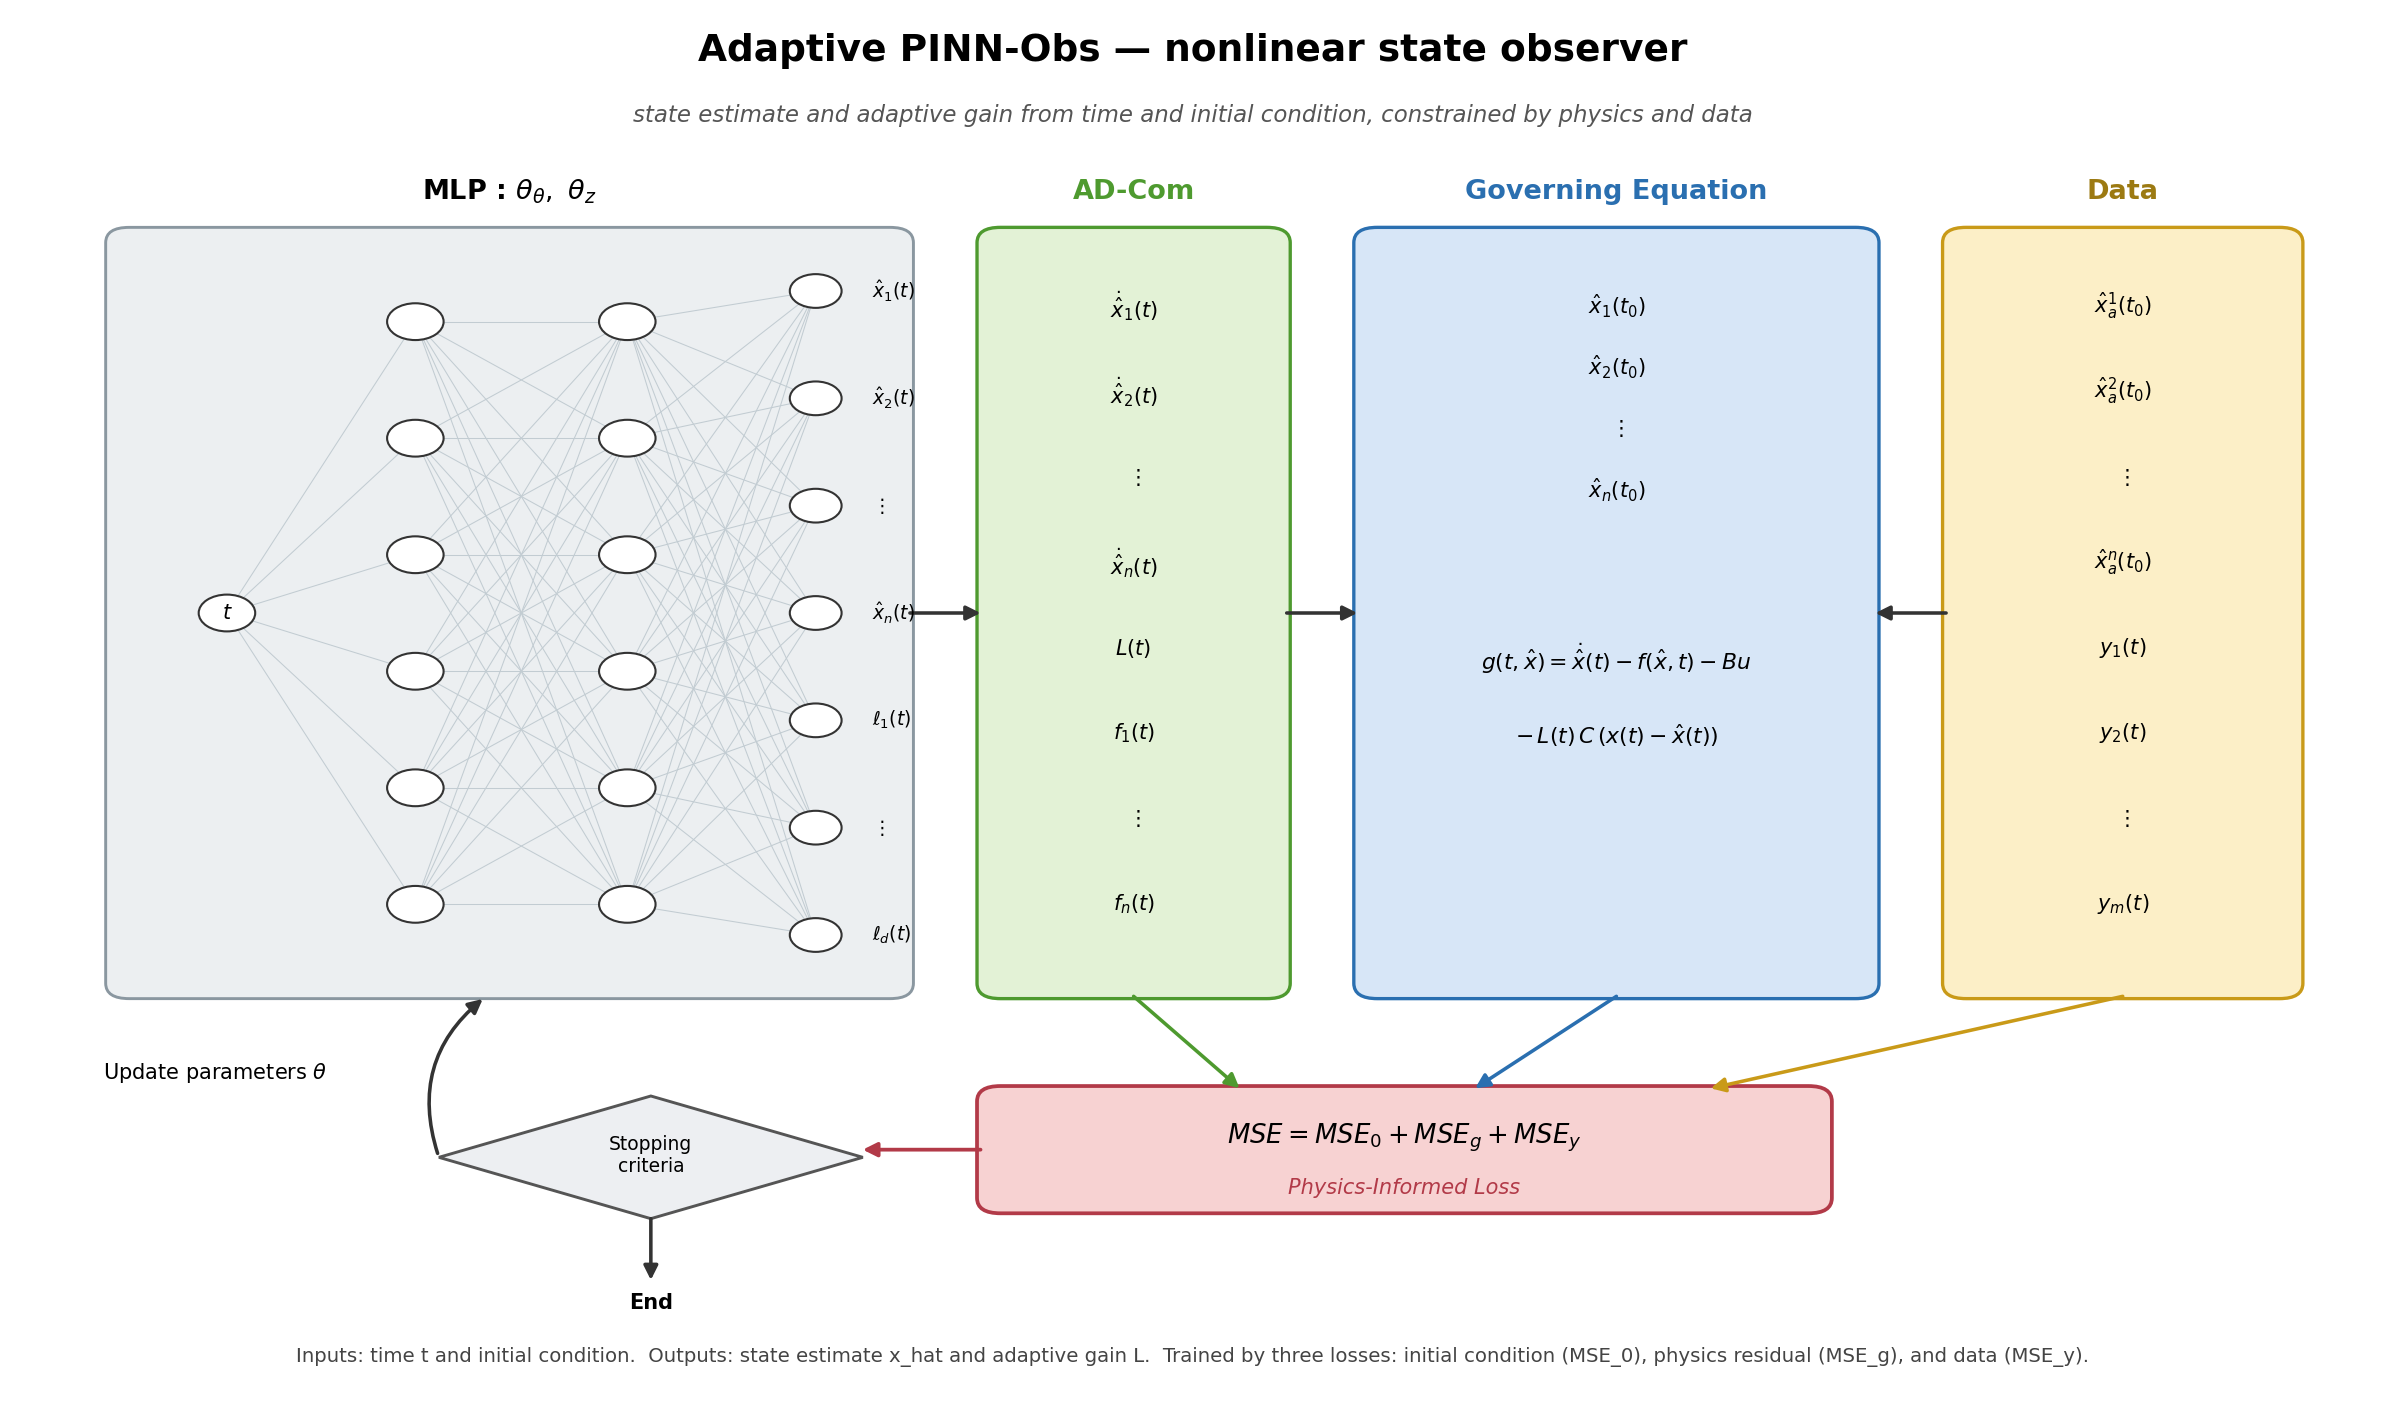
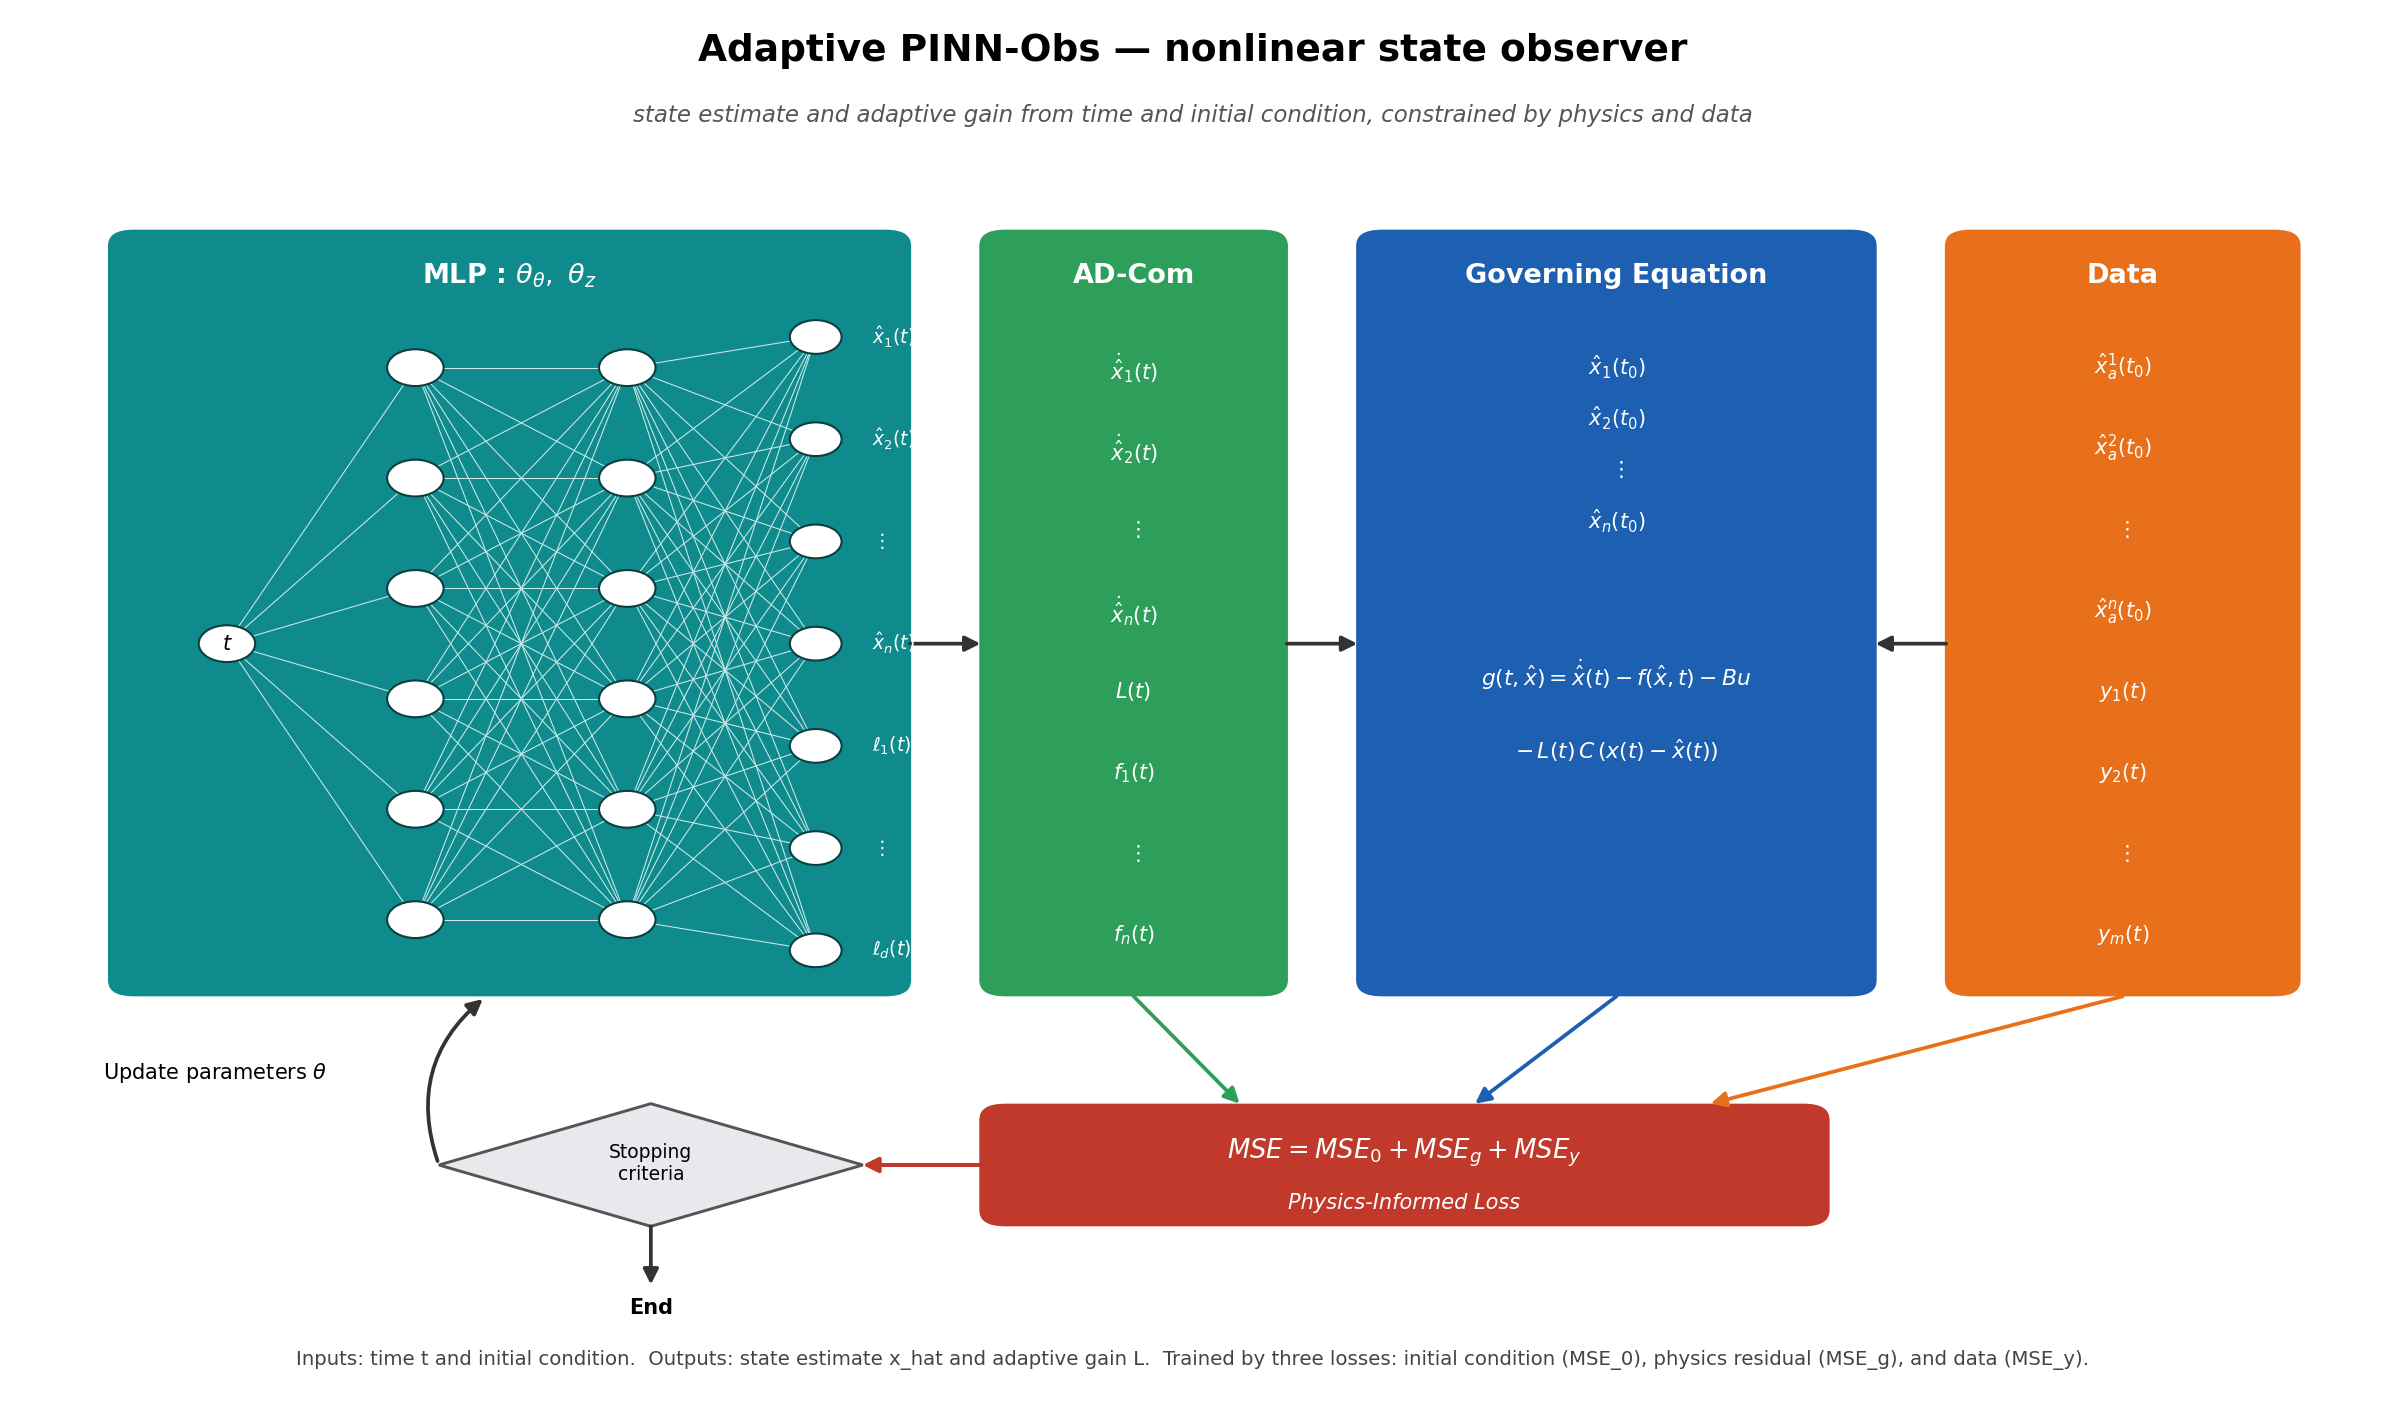
Sharp-colored standalone PINN-Obs architecture figure (matches pipeline palette)

diff --git a/docs/make_pinn_obs_figure.py b/docs/make_pinn_obs_figure.py
@@ -1,4 +1,4 @@
-"""Standalone Adaptive PINN-Obs architecture figure (for the email / thesis)."""
+"""Standalone Adaptive PINN-Obs architecture figure (sharp colors, for email/thesis)."""
 import matplotlib
 matplotlib.use("Agg")
 import matplotlib.pyplot as plt
@@ -8,86 +8,84 @@ import numpy as np
 fig, ax = plt.subplots(figsize=(16, 9.5))
 ax.set_xlim(0, 100); ax.set_ylim(2, 92); ax.axis("off")
 
-GRY_F="#ECEFF1"; GRY_E="#8A97A0"; GREEN_E="#4E9A2F"; BLUE="#0B4F8A"
-GREEN_F="#E3F2D6"; BLUE_F="#D7E6F7"; BLUE_E="#2A6FB0"
-YEL_F="#FCEFC7"; YEL_E="#C99A18"; RED_F="#F7D2D2"; RED_E="#B23A48"; FB="#D7263D"
+# sharp, saturated palette (same family as the pipeline figure)
+MLP_C="#0F8B8D"; AD_C="#2E9E5B"; GOV_C="#1D5FB0"; DATA_C="#E8701A"; LOSS_C="#C0392B"
+FB="#D7263D"
 
-def rbox(x,y,w,h,fc,ec,lw=1.5):
-    ax.add_patch(FancyBboxPatch((x,y),w,h,boxstyle="round,pad=0.15,rounding_size=1.0",fc=fc,ec=ec,lw=lw))
-def arrow(x1,y1,x2,y2,color="#333",lw=1.7):
-    ax.add_patch(FancyArrowPatch((x1,y1),(x2,y2),arrowstyle="-|>",mutation_scale=14,color=color,lw=lw,shrinkA=0,shrinkB=0))
+def rbox(x,y,w,h,fc):
+    ax.add_patch(FancyBboxPatch((x,y),w,h,boxstyle="round,pad=0.15,rounding_size=1.2",fc=fc,ec="white",lw=2.2))
+def arrow(x1,y1,x2,y2,color="#333",lw=1.8):
+    ax.add_patch(FancyArrowPatch((x1,y1),(x2,y2),arrowstyle="-|>",mutation_scale=15,color=color,lw=lw,shrinkA=0,shrinkB=0))
 
 ax.text(50,89,"Adaptive PINN-Obs — nonlinear state observer",ha="center",fontsize=18,fontweight="bold")
 ax.text(50,85,"state estimate and adaptive gain from time and initial condition, constrained by physics and data",
         ha="center",fontsize=11,color="#555",fontstyle="italic")
 
-# ===== MLP =====
-rbox(4,28,34,50,GRY_F,GRY_E,lw=1.4)
-ax.text(21,80,r"MLP : $\theta_\theta,\ \theta_z$",ha="center",fontsize=13,fontweight="bold")
+# ===== MLP (teal) =====
+rbox(4,28,34,50,MLP_C)
+ax.text(21,74.5,r"MLP : $\theta_\theta,\ \theta_z$",ha="center",fontsize=13,fontweight="bold",color="white")
 xin,xh1,xh2,xout=9,17,26,34
-yh=np.linspace(34,72,6); yo=np.linspace(32,74,7)
-for y in yh: ax.plot([xin,xh1],[53,y],color="#c2ccd2",lw=0.5,zorder=1)
+yh=np.linspace(33,69,6); yo=np.linspace(31,71,7)
+for y in yh: ax.plot([xin,xh1],[51,y],color="#CDEAEA",lw=0.5,zorder=1)
 for a in yh:
-    for b in yh: ax.plot([xh1,xh2],[a,b],color="#c2ccd2",lw=0.5,zorder=1)
+    for b in yh: ax.plot([xh1,xh2],[a,b],color="#CDEAEA",lw=0.5,zorder=1)
 for a in yh:
-    for b in yo: ax.plot([xh2,xout],[a,b],color="#c2ccd2",lw=0.5,zorder=1)
-ax.add_patch(Circle((xin,53),1.2,fc="white",ec="#333",zorder=3)); ax.text(xin,53,r"$t$",ha="center",va="center",fontsize=10)
+    for b in yo: ax.plot([xh2,xout],[a,b],color="#CDEAEA",lw=0.5,zorder=1)
+ax.add_patch(Circle((xin,51),1.2,fc="white",ec="#0a3f40",zorder=3)); ax.text(xin,51,r"$t$",ha="center",va="center",fontsize=10)
 for y in yh:
-    ax.add_patch(Circle((xh1,y),1.2,fc="white",ec="#333",zorder=3))
-    ax.add_patch(Circle((xh2,y),1.2,fc="white",ec="#333",zorder=3))
+    ax.add_patch(Circle((xh1,y),1.2,fc="white",ec="#0a3f40",zorder=3))
+    ax.add_patch(Circle((xh2,y),1.2,fc="white",ec="#0a3f40",zorder=3))
 olabels=[r"$\ell_d(t)$",r"$\vdots$",r"$\ell_1(t)$",r"$\hat{x}_n(t)$",r"$\vdots$",r"$\hat{x}_2(t)$",r"$\hat{x}_1(t)$"]
 for y,lab in zip(yo,olabels):
-    ax.add_patch(Circle((xout,y),1.1,fc="white",ec="#333",zorder=3))
-    ax.text(xout+2.4,y,lab,ha="left",va="center",fontsize=9)
+    ax.add_patch(Circle((xout,y),1.1,fc="white",ec="#0a3f40",zorder=3))
+    ax.text(xout+2.4,y,lab,ha="left",va="center",fontsize=9,color="white")
 
 
-# ===== AD-Com =====
-rbox(41,28,13,50,GREEN_F,GREEN_E,lw=1.6)
-ax.text(47.5,80,"AD-Com",ha="center",fontsize=13,fontweight="bold",color=GREEN_E)
+# ===== AD-Com (green) =====
+rbox(41,28,13,50,AD_C)
+ax.text(47.5,74.5,"AD-Com",ha="center",fontsize=13,fontweight="bold",color="white")
 adcom=[r"$\dot{\hat{x}}_1(t)$",r"$\dot{\hat{x}}_2(t)$",r"$\vdots$",r"$\dot{\hat{x}}_n(t)$",
        r"$L(t)$",r"$f_1(t)$",r"$\vdots$",r"$f_n(t)$"]
-for y,lab in zip(np.linspace(73,34,len(adcom)),adcom):
-    ax.text(47.5,y,lab,ha="center",va="center",fontsize=10)
+for y,lab in zip(np.linspace(69,32,len(adcom)),adcom):
+    ax.text(47.5,y,lab,ha="center",va="center",fontsize=10,color="white")
 
-# ===== Governing Equation =====
-rbox(57,28,22,50,BLUE_F,BLUE_E,lw=1.6)
-ax.text(68,80,"Governing Equation",ha="center",fontsize=13,fontweight="bold",color=BLUE_E)
-for y,lab in zip(np.linspace(73,61,4),
+# ===== Governing Equation (blue) =====
+rbox(57,28,22,50,GOV_C)
+ax.text(68,74.5,"Governing Equation",ha="center",fontsize=13,fontweight="bold",color="white")
+for y,lab in zip(np.linspace(69,59,4),
                  [r"$\hat{x}_1(t_0)$",r"$\hat{x}_2(t_0)$",r"$\vdots$",r"$\hat{x}_n(t_0)$"]):
-    ax.text(68,y,lab,ha="center",va="center",fontsize=10)
-ax.text(68,50,r"$g(t,\hat{x}) = \dot{\hat{x}}(t) - f(\hat{x},t) - Bu$",ha="center",va="center",fontsize=10.5)
-ax.text(68,45,r"$-\, L(t)\,C\,(x(t)-\hat{x}(t))$",ha="center",va="center",fontsize=10.5)
+    ax.text(68,y,lab,ha="center",va="center",fontsize=10,color="white")
+ax.text(68,49,r"$g(t,\hat{x}) = \dot{\hat{x}}(t) - f(\hat{x},t) - Bu$",ha="center",va="center",fontsize=10.5,color="white")
+ax.text(68,44,r"$-\, L(t)\,C\,(x(t)-\hat{x}(t))$",ha="center",va="center",fontsize=10.5,color="white")
 
-# ===== Data =====
-rbox(82,28,15,50,YEL_F,YEL_E,lw=1.6)
-ax.text(89.5,80,"Data",ha="center",fontsize=13,fontweight="bold",color="#9c7a12")
+# ===== Data (orange) =====
+rbox(82,28,15,50,DATA_C)
+ax.text(89.5,74.5,"Data",ha="center",fontsize=13,fontweight="bold",color="white")
 data=[r"$\hat{x}_a^1(t_0)$",r"$\hat{x}_a^2(t_0)$",r"$\vdots$",r"$\hat{x}_a^n(t_0)$",
       r"$y_1(t)$",r"$y_2(t)$",r"$\vdots$",r"$y_m(t)$"]
-for y,lab in zip(np.linspace(73,34,len(data)),data):
-    ax.text(89.5,y,lab,ha="center",va="center",fontsize=10)
+for y,lab in zip(np.linspace(69,32,len(data)),data):
+    ax.text(89.5,y,lab,ha="center",va="center",fontsize=10,color="white")
 
-arrow(38,53,41,53); arrow(54,53,57,53); arrow(82,53,79,53)
+arrow(38,51,41,51); arrow(54,51,57,51); arrow(82,51,79,51)
 
 
-# ===== Physics-Informed Loss =====
-rbox(41,14,36,8,RED_F,RED_E,lw=1.8)
-ax.text(59,18.8,r"$MSE = MSE_0 + MSE_g + MSE_y$",ha="center",va="center",fontsize=12.5)
-ax.text(59,15.5,"Physics-Informed Loss",ha="center",va="center",fontsize=10,fontstyle="italic",color=RED_E)
-arrow(47.5,28,52,22,color=GREEN_E)
-arrow(68,28,62,22,color=BLUE_E)
-arrow(89.5,28,72,22,color=YEL_E)
+# ===== Physics-Informed Loss (red) =====
+rbox(41,13,36,8,LOSS_C)
+ax.text(59,17.8,r"$MSE = MSE_0 + MSE_g + MSE_y$",ha="center",va="center",fontsize=12.5,color="white")
+ax.text(59,14.5,"Physics-Informed Loss",ha="center",va="center",fontsize=10,fontstyle="italic",color="white")
+arrow(47.5,28,52,21,color=AD_C); arrow(68,28,62,21,color=GOV_C); arrow(89.5,28,72,21,color=DATA_C)
 
 # ===== stopping / update loop =====
-ax.add_patch(Polygon([(18,17.5),(27,21.5),(36,17.5),(27,13.5)],closed=True,fc="#EDEFF2",ec="#555",lw=1.4))
-ax.text(27,17.6,"Stopping\ncriteria",ha="center",va="center",fontsize=9)
-arrow(41,18,36,18,color=RED_E,lw=1.8)
-ax.add_patch(FancyArrowPatch((18,17.5),(20,28),connectionstyle="arc3,rad=-0.35",
-             arrowstyle="-|>",mutation_scale=14,color="#333",lw=1.7))
+ax.add_patch(Polygon([(18,17.0),(27,21.0),(36,17.0),(27,13.0)],closed=True,fc="#E7E9ED",ec="#555",lw=1.4))
+ax.text(27,17.1,"Stopping\ncriteria",ha="center",va="center",fontsize=9)
+arrow(41,17,36,17,color=LOSS_C,lw=1.9)
+ax.add_patch(FancyArrowPatch((18,17.0),(20,28),connectionstyle="arc3,rad=-0.35",
+             arrowstyle="-|>",mutation_scale=15,color="#333",lw=1.8))
 ax.text(8.5,23,r"Update parameters $\theta$",ha="center",va="center",fontsize=10)
-arrow(27,13.5,27,9.5,color="#333")
-ax.text(27,8,"End",ha="center",va="center",fontsize=10,fontweight="bold")
+arrow(27,13.0,27,9.2,color="#333")
+ax.text(27,7.7,"End",ha="center",va="center",fontsize=10,fontweight="bold")
 
-ax.text(50,4.5,"Inputs: time t and initial condition.  Outputs: state estimate x_hat and adaptive gain L.  "
+ax.text(50,4.3,"Inputs: time t and initial condition.  Outputs: state estimate x_hat and adaptive gain L.  "
         "Trained by three losses: initial condition (MSE_0), physics residual (MSE_g), and data (MSE_y).",
         ha="center",va="center",fontsize=9.5,color="#444")
 
